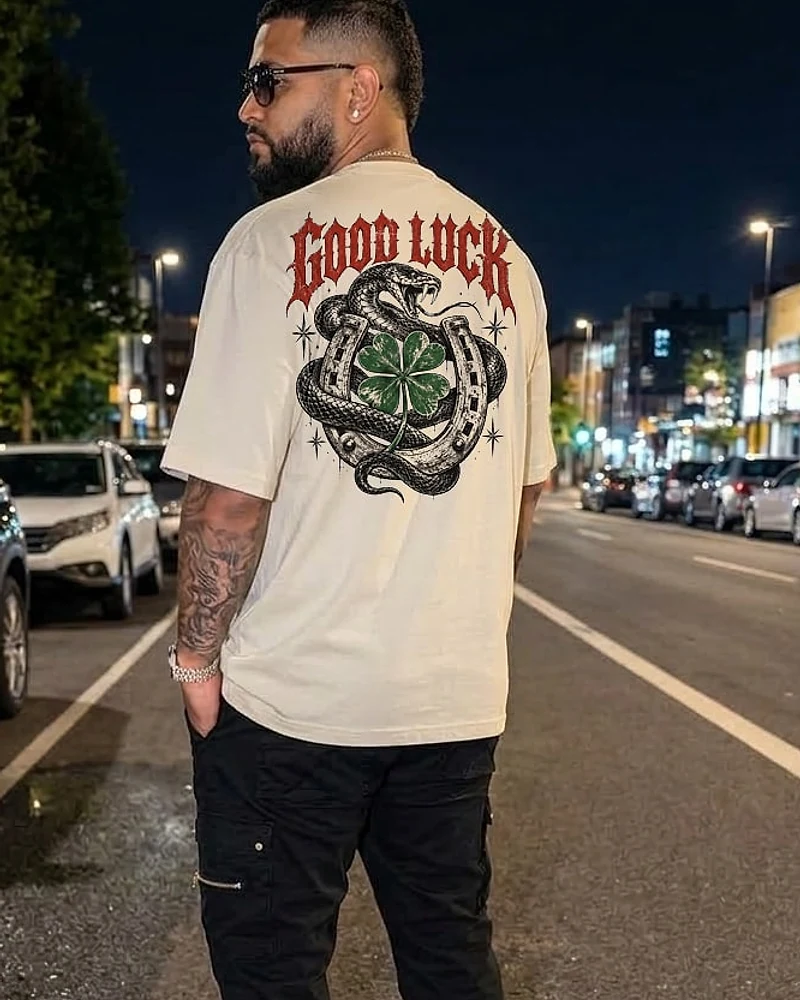
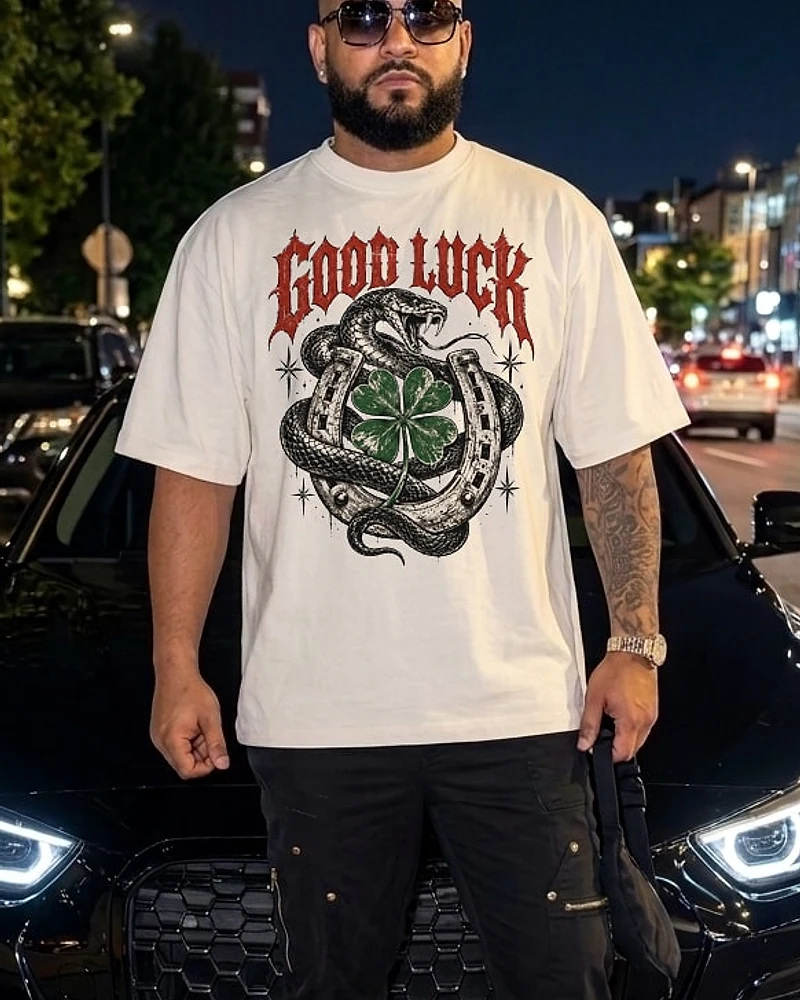
feat(tees): every graphic is a front print
All Graphic Designs print on the front only: eagle-clover and
snake-horseshoe move from back to front, on-model shots for them are
reprinted on the front templates, and the two back-print shoot photos
are no longer used. The catalog migration now keeps data-owned tee
fields (printPosition, graphicImage) in sync while still never touching
admin-editable ones. The Shop's tee print filter is removed.

diff --git a/src/lib/shop.ts b/src/lib/shop.ts
@@ -35,13 +35,11 @@ export const COLOR_FAMILY_SWATCH: Record<ColorFamily, string> = {
 export type Category = "all" | "caps" | "tees";
 export type SortKey = "featured" | "newest" | "price-asc" | "price-desc";
 export type Silhouette = "snapback" | "trucker";
-export type PrintSide = "front" | "back";
 
 export interface ShopState {
   category: Category;
   colors: ColorFamily[];
   silhouettes: Silhouette[];
-  prints: PrintSide[];
   inStock: boolean;
   sort: SortKey;
 }
@@ -50,7 +48,6 @@ export const DEFAULT_STATE: ShopState = {
   category: "all",
   colors: [],
   silhouettes: [],
-  prints: [],
   inStock: false,
   sort: "featured",
 };
@@ -141,9 +138,8 @@ export function applyShop(products: CapVariant[], state: ShopState, now: number)
     if (state.category === "caps" && tee) return false;
     if (state.category === "tees" && !tee) return false;
     if (state.colors.length && !productFamilies(p).some((f) => state.colors.includes(f))) return false;
-    // Cap-only and tee-only facets narrow their own category and leave the other untouched
+    // The cap-only fit facet narrows caps and leaves tees untouched
     if (state.silhouettes.length && !tee && !state.silhouettes.includes(p.silhouette as Silhouette)) return false;
-    if (state.prints.length && tee && !state.prints.includes(p.printPosition ?? "front")) return false;
     if (state.inStock && !isPurchasable(p, now)) return false;
     return true;
   });
@@ -190,7 +186,6 @@ export function parseShopState(params: URLSearchParams): ShopState {
     category: category === "caps" || category === "tees" ? category : "all",
     colors: list(params.get("color"), COLOR_FAMILIES),
     silhouettes: list(params.get("silhouette"), ["snapback", "trucker"] as const),
-    prints: list(params.get("print"), ["front", "back"] as const),
     inStock: params.get("stock") === "1",
     sort: sort === "newest" || sort === "price-asc" || sort === "price-desc" ? sort : "featured",
   };
@@ -202,7 +197,6 @@ export function serializeShopState(state: ShopState): string {
   if (state.category !== "all") params.set("category", state.category);
   if (state.colors.length) params.set("color", state.colors.join(","));
   if (state.silhouettes.length && state.category !== "tees") params.set("silhouette", state.silhouettes.join(","));
-  if (state.prints.length && state.category !== "caps") params.set("print", state.prints.join(","));
   if (state.inStock) params.set("stock", "1");
   if (state.sort !== "featured") params.set("sort", state.sort);
   const qs = params.toString();
@@ -210,5 +204,5 @@ export function serializeShopState(state: ShopState): string {
 }
 
 export function activeFilterCount(state: ShopState): number {
-  return state.colors.length + state.silhouettes.length + state.prints.length + (state.inStock ? 1 : 0);
+  return state.colors.length + state.silhouettes.length + (state.inStock ? 1 : 0);
 }

diff --git a/src/__tests__/shop.test.ts b/src/__tests__/shop.test.ts
@@ -94,7 +94,7 @@ describe("applyShop", () => {
     cap("negro-rojo", "#111111", { isFeatured: true }),
     cap("blanco-negro-trucker", "#f8fafc", { silhouette: "trucker", priceUsd: 125 }),
     cap("rosa-blanco", "#f472b6", { stock: 0 }),
-    tee("eagle-clover-tee", { printPosition: "back" }),
+    tee("eagle-clover-tee"),
     tee("butterfly-grunge-tee"),
   ];
 
@@ -114,11 +114,9 @@ describe("applyShop", () => {
     expect(items[0].image).toBe("/catalog/tees/eagle-clover-tee/butter-cream.webp");
   });
 
-  it("silhouette narrows caps only; print narrows tees only", () => {
+  it("silhouette narrows caps only", () => {
     const bySilhouette = applyShop(products, state({ silhouettes: ["trucker"] }), NOW).map((i) => i.product.id);
     expect(bySilhouette).toEqual(["blanco-negro-trucker", "eagle-clover-tee", "butterfly-grunge-tee"]);
-    const byPrint = applyShop(products, state({ category: "tees", prints: ["back"] }), NOW).map((i) => i.product.id);
-    expect(byPrint).toEqual(["eagle-clover-tee"]);
   });
 
   it("in-stock hides sold-out products and unreleased drops", () => {
@@ -149,9 +147,9 @@ describe("applyShop", () => {
 
 describe("URL state", () => {
   it("round-trips and omits defaults", () => {
-    const s = state({ category: "tees", colors: ["black", "cream"], prints: ["back"], inStock: true, sort: "price-asc" });
+    const s = state({ category: "tees", colors: ["black", "cream"], inStock: true, sort: "price-asc" });
     const qs = serializeShopState(s);
-    expect(qs).toBe("?category=tees&color=black%2Ccream&print=back&stock=1&sort=price-asc");
+    expect(qs).toBe("?category=tees&color=black%2Ccream&stock=1&sort=price-asc");
     expect(parseShopState(new URLSearchParams(qs))).toEqual(s);
     expect(serializeShopState(DEFAULT_STATE)).toBe("");
   });

diff --git a/convex/products.ts b/convex/products.ts
@@ -1175,6 +1175,9 @@ const LIFESTYLE_RENAMES: Record<string, string> = {
 };
 const renamed = (path: string) => LIFESTYLE_RENAMES[path] ?? path;
 
+/** Tee fields with no admin editor: the catalog data owns them, so the migration keeps them in sync. */
+const DATA_OWNED_TEE_FIELDS = new Set(["printPosition", "graphicImage"]);
+
 type CatalogShotsManifest = {
   caps: Record<string, { catalog: string }>;
   tees: Record<string, { colorways: Record<string, string> }>;
@@ -1301,9 +1304,12 @@ export const migrateUnifiedCatalog = internalMutation({
       let variant = await getVariant(ctx, tee.id);
       if (variant) {
         // Fill only what is missing: re-running must never undo an Administrator's edits.
+        // Exception: fields no admin screen edits are owned by the catalog data and kept in sync.
         const patch: Record<string, unknown> = {};
         for (const [key, value] of Object.entries(teeFields)) {
-          if (value !== undefined && variant[key as keyof typeof variant] === undefined) patch[key] = value;
+          if (value === undefined) continue;
+          const current = variant[key as keyof typeof variant];
+          if (current === undefined || (DATA_OWNED_TEE_FIELDS.has(key) && current !== value)) patch[key] = value;
         }
         // Canonical Lifestyle Shot names: rewrite only paths that still point at the old files.
         if (LIFESTYLE_RENAMES[variant.image]) patch.image = renamed(variant.image);

diff --git a/src/components/shop/ShopView.tsx b/src/components/shop/ShopView.tsx
@@ -22,7 +22,6 @@ import {
   serializeShopState,
   type Category,
   type ColorFamily,
-  type PrintSide,
   type ShopState,
   type Silhouette,
   type SortKey,
@@ -200,7 +199,6 @@ function FilterPanel({
   const t = useTranslations("shop");
   const families = COLOR_FAMILIES.filter((f) => counts[f] || state.colors.includes(f));
   const showFit = state.category !== "tees";
-  const showPrint = state.category !== "caps";
 
   return (
     <div className="flex flex-col gap-7">
@@ -245,17 +243,6 @@ function FilterPanel({
         />
       )}
 
-      {showPrint && (
-        <ChoiceGroup
-          legend={t("facetPrint")}
-          options={[
-            { value: "front" as PrintSide, label: t("printFront") },
-            { value: "back" as PrintSide, label: t("printBack") },
-          ]}
-          selected={state.prints}
-          onToggle={(v) => setState({ ...state, prints: toggle(state.prints, v) })}
-        />
-      )}
 
       <fieldset>
         <legend className="mb-3 font-display text-sm font-bold text-zinc-900 dark:text-white">{t("facetAvailability")}</legend>

diff --git a/convex/inventory.test.ts b/convex/inventory.test.ts
@@ -384,6 +384,26 @@ describe("migrateUnifiedCatalog", () => {
     expect(after?.fitEn).toBe("Custom fit copy");
   });
 
+  it("keeps data-owned fields in sync, e.g. a print moved from back to front", async () => {
+    const tt = t();
+    await tt.mutation(internal.products.migrateUnifiedCatalog, {});
+    await tt.run(async (ctx) => {
+      const v = await ctx.db
+        .query("variants")
+        .withIndex("by_variantId", (q) => q.eq("variantId", "eagle-clover-tee"))
+        .first();
+      await ctx.db.patch(v!._id, { printPosition: "back" });
+    });
+    await tt.mutation(internal.products.migrateUnifiedCatalog, {});
+    const row = await tt.run(async (ctx) =>
+      ctx.db
+        .query("variants")
+        .withIndex("by_variantId", (q) => q.eq("variantId", "eagle-clover-tee"))
+        .first()
+    );
+    expect(row?.printPosition).toBe("front");
+  });
+
   it("fills only missing tee fields on a pre-existing row", async () => {
     const tt = t();
     await tt.run(async (ctx) => {

diff --git a/scripts/build-catalog-shots.ts b/scripts/build-catalog-shots.ts
@@ -162,7 +162,8 @@ const TEMPLATE_COLOR: Record<FabricId, string> = {
  * Lifestyle Shots from the real photo shoot (printed garments). They are never regenerated;
  * every other on-model shot is printed from the blank templates by printOnModel.
  */
-const SHOOT_PHOTOS = new Set(["/shirts/eagle-clover-black.jpg", "/shirts/eagle-clover-grey.jpg", "/shirts/angel-clover-white.jpg"]);
+// (The eagle-clover black/grey shoot photos show a back print; every design is front-only now.)
+const SHOOT_PHOTOS = new Set(["/shirts/angel-clover-white.jpg"]);
 
 type TeeTemplates = Record<string, { file: string; measure: TeeMeasure; box: PrintBox; width: number; height: number }>;
 const TEE_TEMPLATES = teeTemplates as TeeTemplates;

diff --git a/scripts/update-caps-data.ts b/scripts/update-caps-data.ts
@@ -92,7 +92,7 @@ const newShirtVariants = `export const SHIRT_VARIANTS: CapVariant[] = [
       "/shirts/graphics/eagle-clover.jpg",
     ],
     graphicImage: "/shirts/graphics/eagle-clover.jpg",
-    printPosition: "back",
+    printPosition: "front",
     stock: 22,
     priceUsd: 80,
     isFeatured: true,
@@ -197,7 +197,7 @@ const newShirtVariants = `export const SHIRT_VARIANTS: CapVariant[] = [
       "/shirts/graphics/snake-horseshoe.jpg",
     ],
     graphicImage: "/shirts/graphics/snake-horseshoe.jpg",
-    printPosition: "back",
+    printPosition: "front",
     stock: 20,
     priceUsd: 80,
     isFeatured: false,

diff --git a/src/data/caps.ts b/src/data/caps.ts
@@ -179,7 +179,7 @@ export const SHIRT_VARIANTS: CapVariant[] = [
       "/shirts/graphics/eagle-clover.jpg",
     ],
     graphicImage: "/shirts/graphics/eagle-clover.jpg",
-    printPosition: "back",
+    printPosition: "front",
     stock: 22,
     priceUsd: 80,
     isFeatured: true,
@@ -284,7 +284,7 @@ export const SHIRT_VARIANTS: CapVariant[] = [
       "/shirts/graphics/snake-horseshoe.jpg",
     ],
     graphicImage: "/shirts/graphics/snake-horseshoe.jpg",
-    printPosition: "back",
+    printPosition: "front",
     stock: 20,
     priceUsd: 80,
     isFeatured: false,
